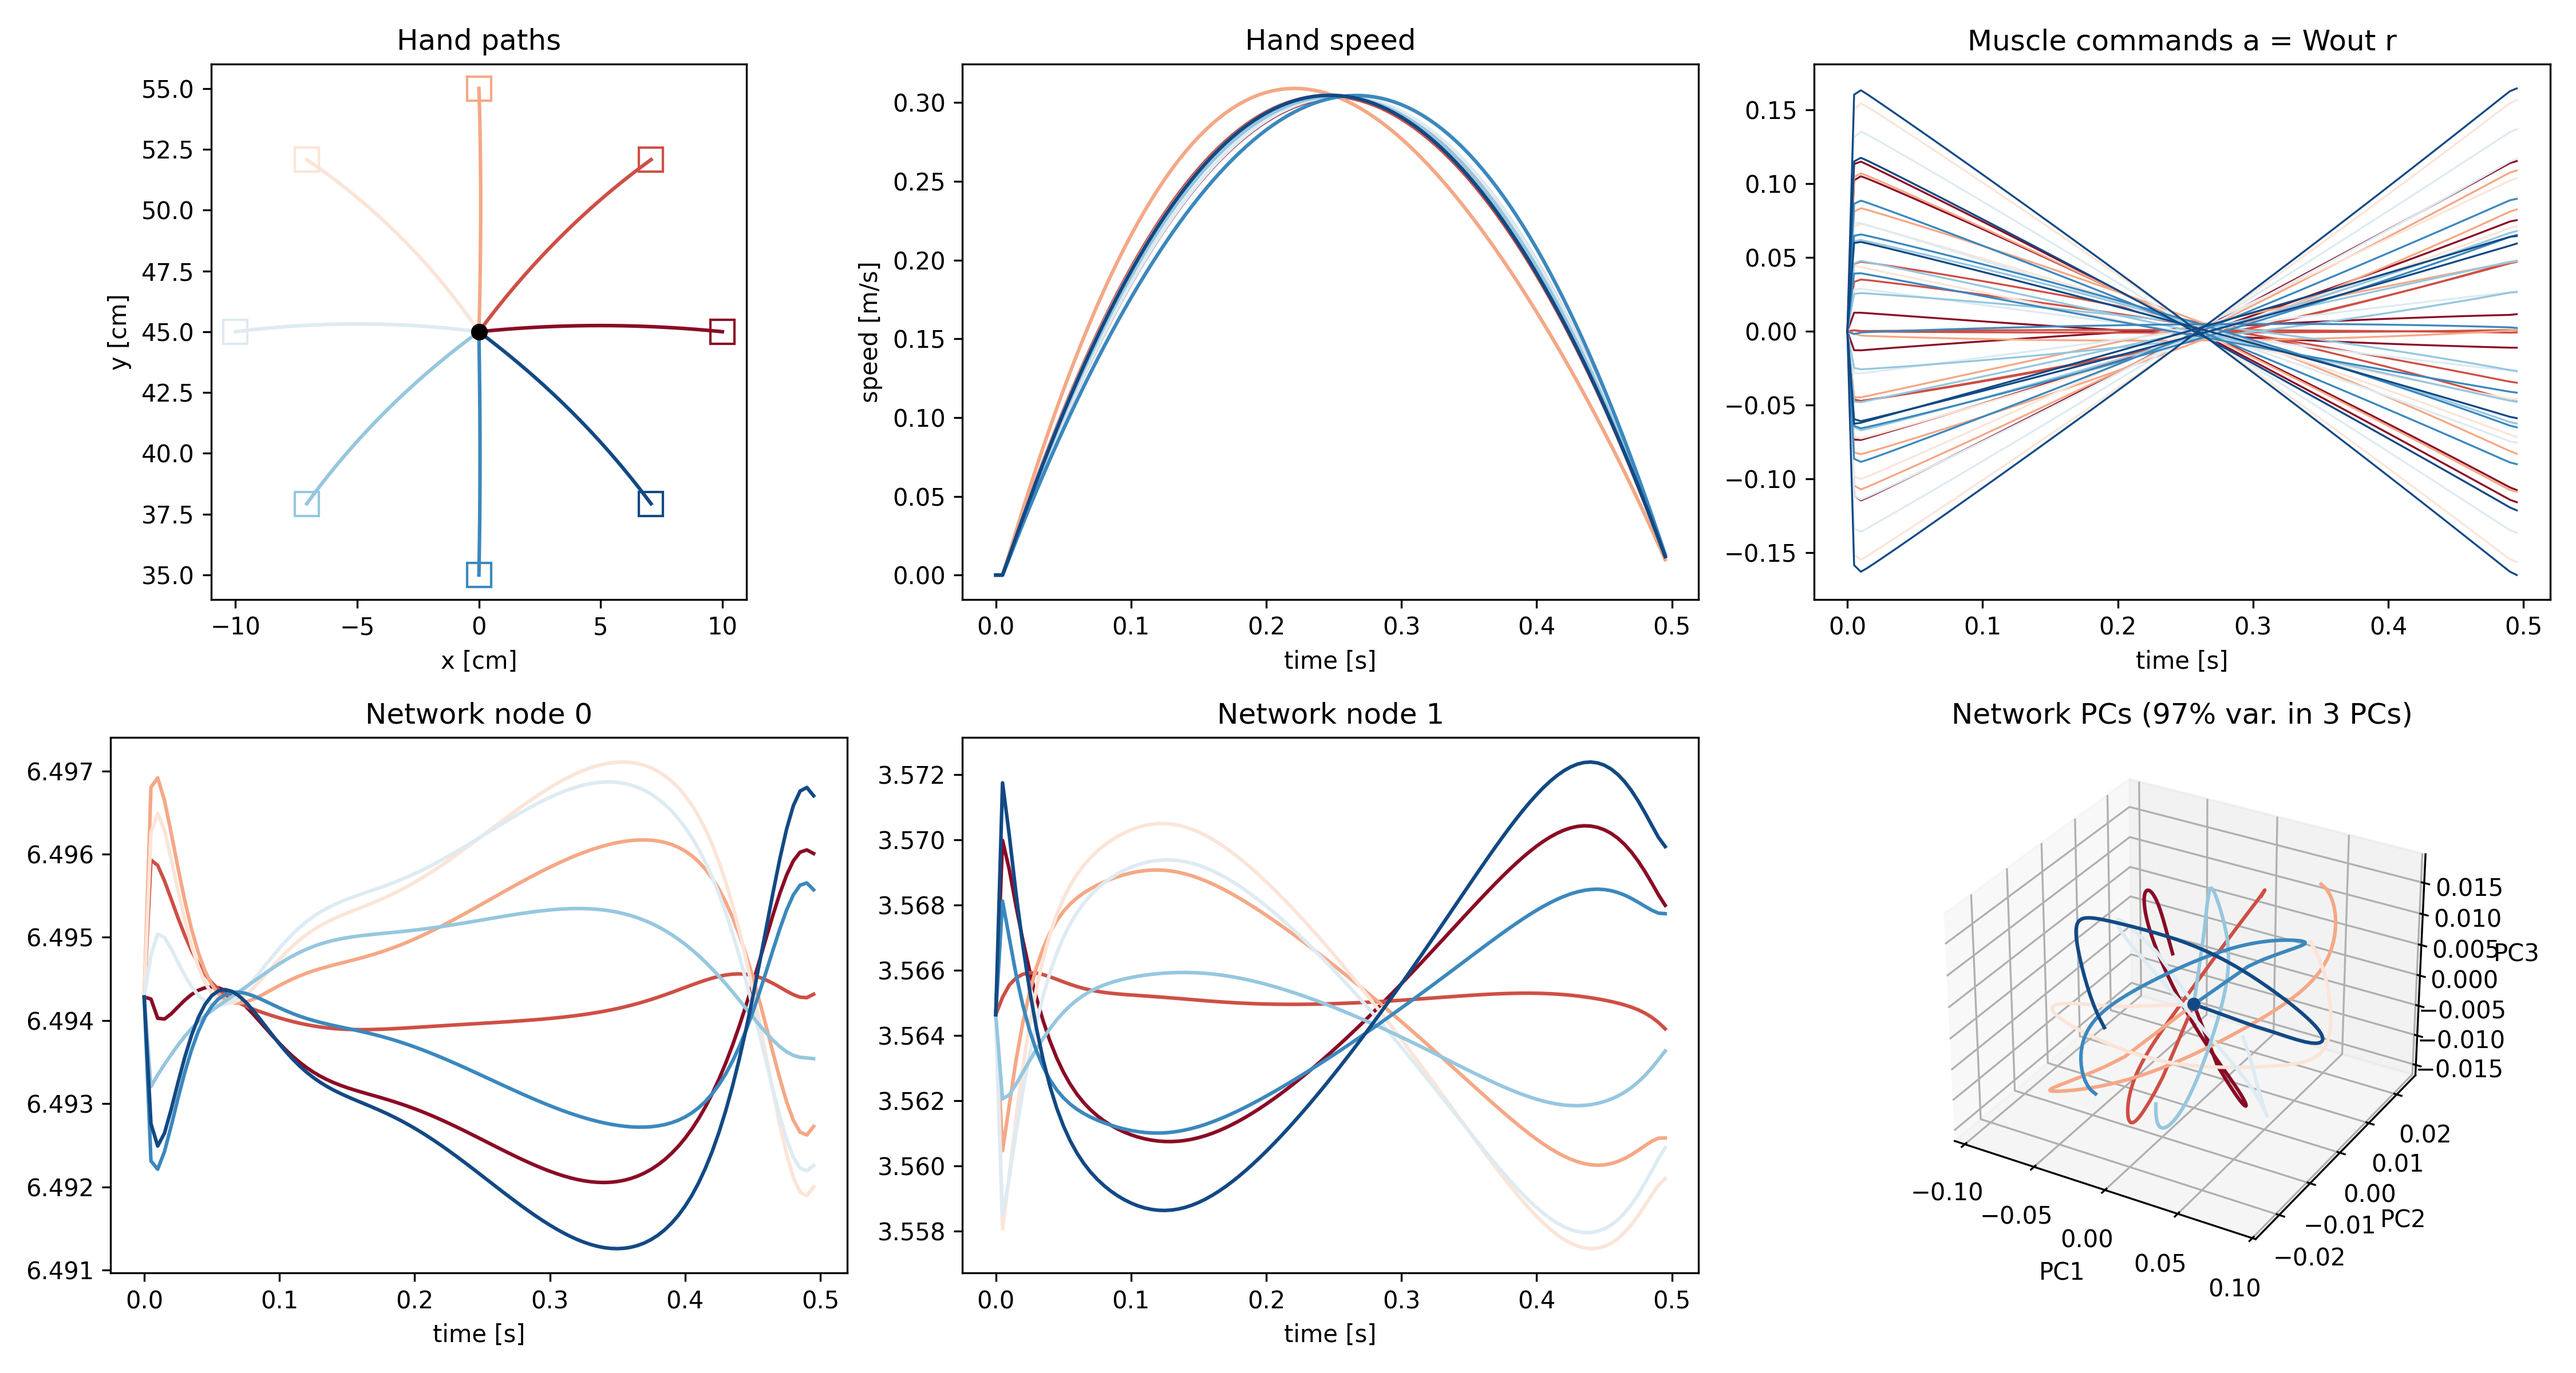
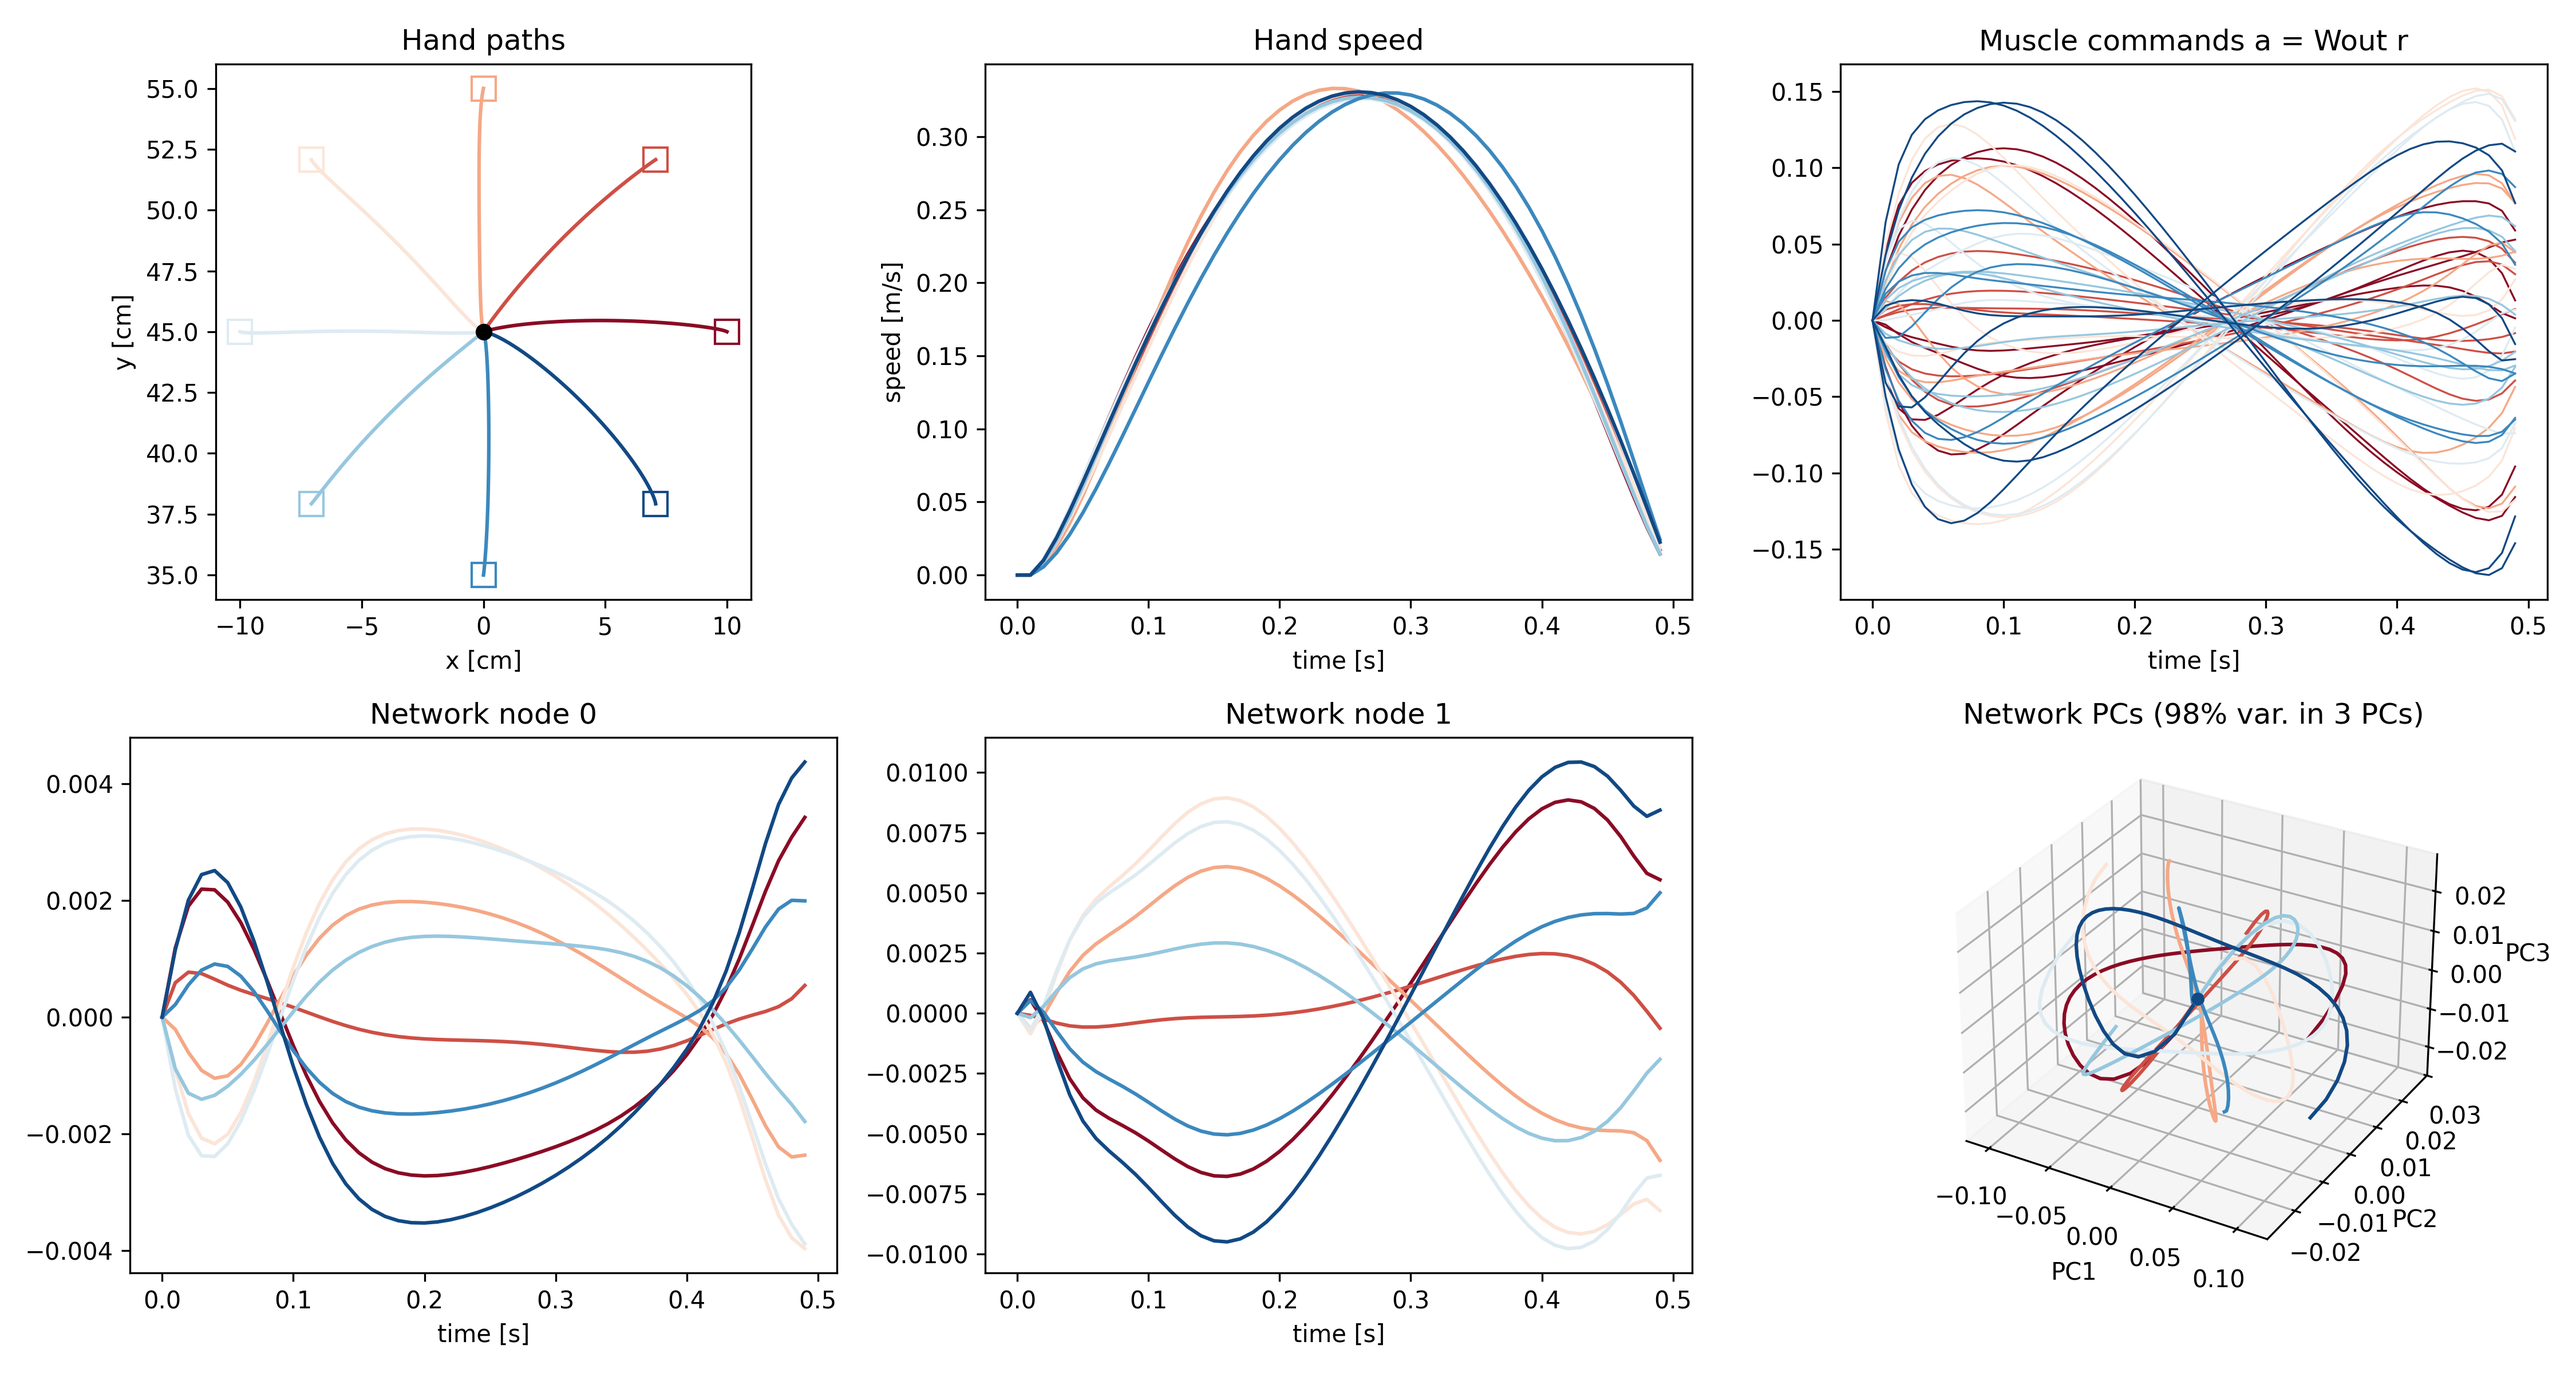
upd

diff --git a/BodyNetiLQG/iLQG_Bodynet.py b/BodyNetiLQG/iLQG_Bodynet.py
@@ -29,7 +29,7 @@ G_NET = 0.8  # fully connected random network, W ~ N(0, g^2 / n)
 _rng = np.random.default_rng(0)
 W_NET = _rng.normal(0, G_NET / np.sqrt(N_NET), (N_NET, N_NET))
 WOUT = _rng.normal(0, 0.5, (N_MUSCLES, N_NET))
-EPS_NET = _rng.normal(0, 5, N_NET)  # constant input -> heterogeneous spontaneous activity
+EPS_NET = _rng.normal(0, 5, N_NET)*0  # constant input -> heterogeneous spontaneous activity
 J_NET = (W_NET - np.identity(N_NET)) / TAU_NET
 
 
